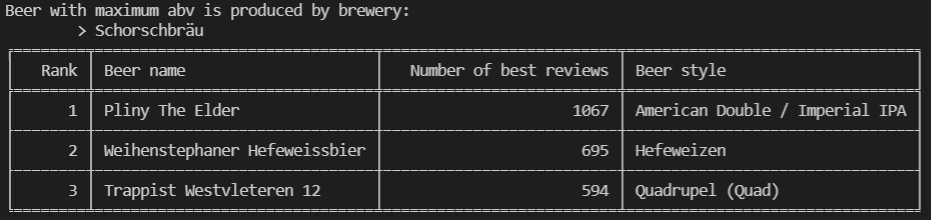
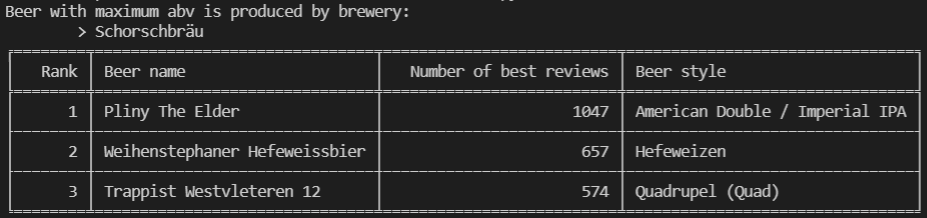
Updated task 2 by a condition

diff --git a/main.py b/main.py
@@ -1,6 +1,7 @@
 import pandas as pd
 import numpy as np
 from tabulate import tabulate
+from typing import List
 
 # get the dataset and create a data frame
 df = pd.read_csv('https://query.data.world/s/epkvquv6dgo5zi337wa2n23div4i3w')
@@ -16,13 +17,14 @@ max_abv_value = max(df["beer_abv"])
 max_abv_beers_indecies = [list(df["beer_abv"]).index(max_abv_value) for beer_abv in list(df["beer_abv"]) if beer_abv == max_abv_value]
 max_abv_beer_index = list(df["beer_abv"]).index(max_abv_value)
 
-if len(max_abv_beers_indecies) < 2:
+if len(max_abv_beers_indecies) < 2:  # if there is only one beer with the highest abv
     # print the name of the brewery that produces beer with highest abv
     print(f'Beer with maximum abv is produced by brewery: \n\t> {df["brewery_name"][max_abv_beer_index]}')
 else:
-    print('Beer with maximum abv are produced by breweries:')
+    print('Beers with maximum abv are produced by breweries:')
     for index in max_abv_beers_indecies:
         print(f'\t> {df["brewery_name"][index]}')
+
 
 # =================================================== #
 # If you had to pick 3 beers to recommend to someone, #
@@ -30,26 +32,70 @@ else:
 # =================================================== #
 
 '''
+My solution regards recommending specific beers based on number of best overall reviews.
+
 To answer this question, I will break down the solution into the following parts:
-    1. Create a data stating how many times each beer have received maximum score
+    1. Create a data stating how many times each beer have received maximum score.
+    Bypassing data from the database (*)
     2. Find 3 beers which have the most number of maximum overall reviews
     and are of different beer style
-SQL query: SELECT DISTINCT beer_style FROM beer_reviews WHERE beer_name=""
+
+(*) Found problems:
+When you run the query:
+SELECT
+review_appearance, review_aroma, review_palate, review_taste, review_overall
+FROM beer_reviews where review_time=1235954167
+
+You can see that the review of review_time=1235954167 has review_overall of 5.0,
+but all the partial reviews are in range 2.0-3.0. This indicates that in the dataset
+there is some false data.
+
+To eliminate the false data you can run the query:
+SELECT
+review_appearance, review_aroma, review_palate, review_taste, review_overall
+FROM beer_reviews WHERE review_appearance >=4 AND review_aroma>=4 AND review_palate>=4
+AND review_taste>=4 GROUP BY review_time
+HAVING AVG(review_appearance+review_aroma+review_palate+review_taste) >= 4
 '''
 
 max_score = max(df['review_overall'])  # max score achieved by any beer
-n_of_indecies = len(list(df['review_overall']))  # number of rows from dataframe
+n_of_indecies = len(df.index)  # number of rows from dataframe
 
 n_of_beer_reviews = {}  # dict that holds how many times specific beer has received max score reviews and its style
+GOOD_REVIEW = 4.0  # parameter that indicates if review is considered good 
+# The results heavly depends on this parameter 
+
+def partialReview(index: int) -> bool:
+    '''
+    Returns TRUE, if all partial reviews of specific index are greater than 
+    constant value. Otherwises, returns False. 
+    '''
+    # create partial reviews list
+    p_review_list =  [
+            df['review_appearance'][index],
+            df['review_aroma'][index],
+            df['review_palate'][index],
+            df['review_taste'][index]
+        ]
+    for review in p_review_list:  # iterate through each review value
+        if review >= GOOD_REVIEW:  # if review greater or equal than parameter
+            continue
+        else:
+            return False
+    return True
 
 for index in range(n_of_indecies):  # iterate through indecies
     if df['review_overall'][index] == max_score:  # if review is max score
-        beer_name = df['beer_name'][index]
-        beer_style = df['beer_style'][index]
-        if beer_name not in n_of_beer_reviews.keys():  # if beer name not in dictionary
-            n_of_beer_reviews[beer_name] = [1, beer_style]
+        # (*) Filter the false data here
+        if partialReview(index):  # if every partial review is greater than parameter 
+            beer_name = df['beer_name'][index]
+            beer_style = df['beer_style'][index]
+            if beer_name not in n_of_beer_reviews.keys():  # if beer name not in dictionary
+                n_of_beer_reviews[beer_name] = [1, beer_style]
+            else:
+                n_of_beer_reviews[beer_name][0] += 1  # increase number of max score reviews
         else:
-            n_of_beer_reviews[beer_name][0] += 1  # increase number of max score reviews
+            continue
 
 # sort a dictionary by descending value using lambda function
 n_of_beer_reviews = {k: v for k, v in sorted(n_of_beer_reviews.items(), key=lambda item: item[1], reverse=True)}
